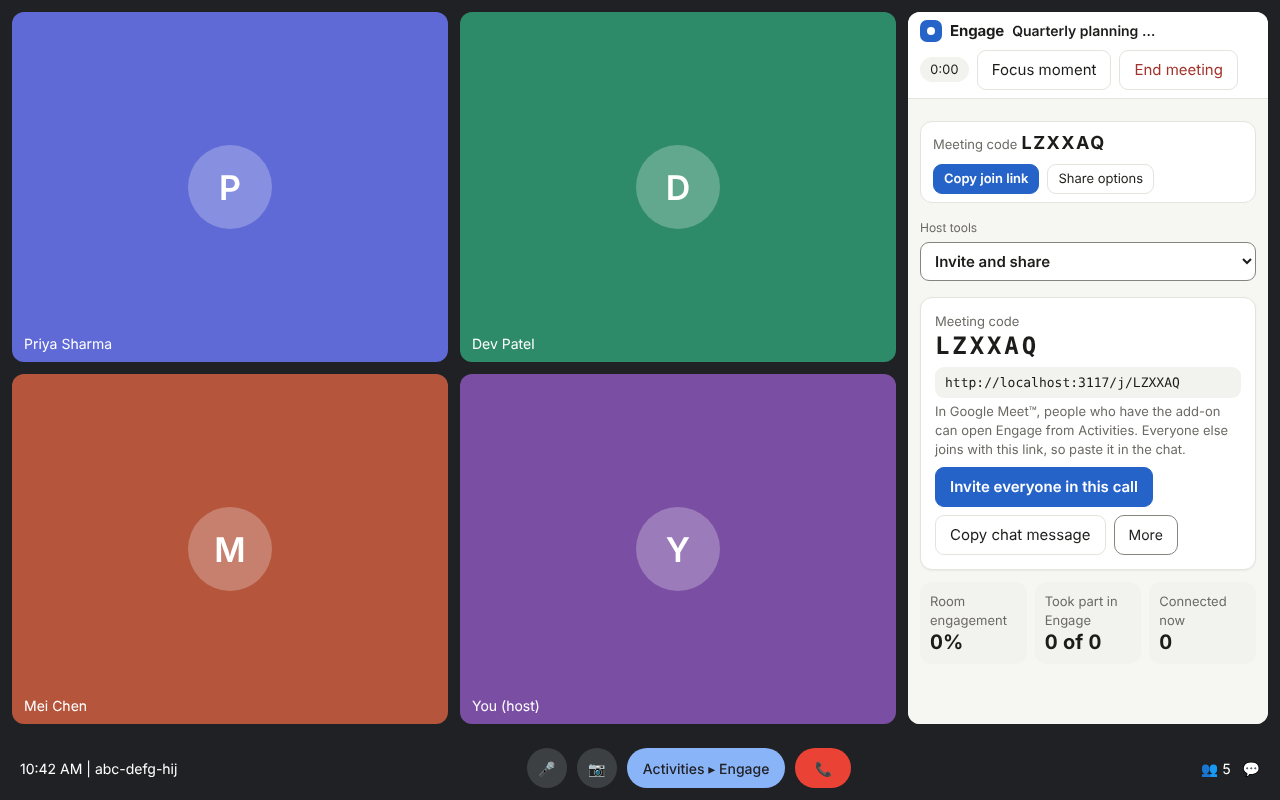
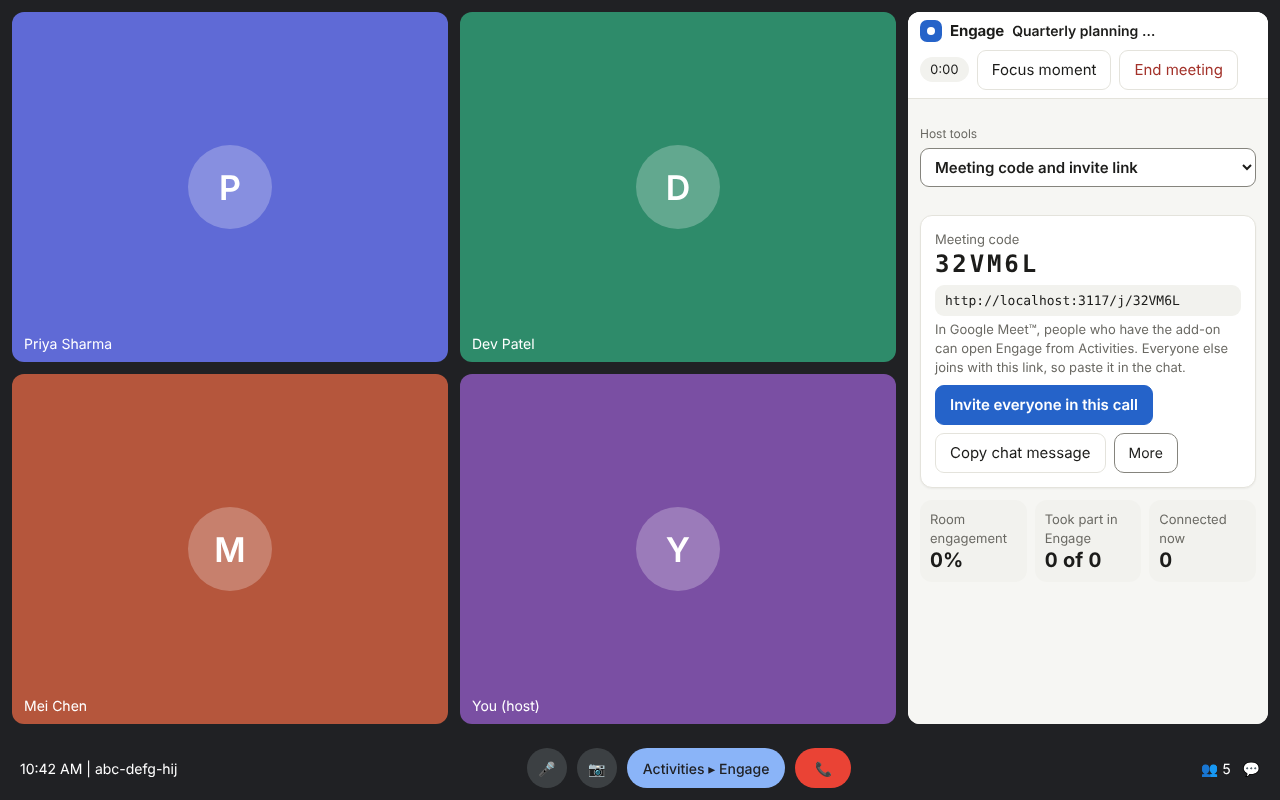
Host panel: meeting code lives only in the tools dropdown, not a permanent strip
Claude-Session: https://claude.ai/code/session_01HMG2dDoKgBtQZLgDZz4L91

diff --git a/public/host.html b/public/host.html
@@ -29,11 +29,6 @@
   <main id="live" class="host-wrap" hidden>
     <div id="banners" class="stack"></div>
 
-    <div class="share-strip" id="share-strip" hidden>
-      <div><span class="small muted">Meeting code</span> <b class="num" id="strip-code"></b></div>
-      <div class="row"><button id="strip-copy" class="small primary">Copy join link</button><button id="strip-more" class="small">Share options</button></div>
-    </div>
-
     <div class="feature-bar" id="feature-bar" hidden>
       <label for="feature">Host tools</label>
       <select id="feature" aria-label="Choose a host tool">
@@ -44,7 +39,7 @@
         <option value="games">Games and automation</option>
         <option value="people">Who has been quiet</option>
         <option value="overview">Engagement over time</option>
-        <option value="invite">Invite and share</option>
+        <option value="invite">Meeting code and invite link</option>
         <option value="export">Download CSV and account</option>
       </select>
     </div>

diff --git a/public/js/host.js b/public/js/host.js
@@ -791,12 +791,9 @@ if (embedded) {
   $('#feature-bar').hidden = false;
   let saved = null;
   try { saved = sessionStorage.getItem(featureKey); } catch { /* ignore */ }
-  // First time in: land on Invite and share so the host has the code and link in hand.
+  // First time in: land on the meeting code and invite link; after that the host's last tool is remembered.
   showFeature([...featureSelect.options].some((o) => o.value === saved) ? saved : 'invite');
-  $('#share-strip').hidden = false;
-  $('#strip-code').textContent = code;
-  $('#strip-copy').addEventListener('click', () => copy(link(), 'Join link copied. Paste it in the meeting chat.'));
-  $('#strip-more').addEventListener('click', () => { showFeature('invite'); });
+
   featureSelect.addEventListener('change', () => showFeature(featureSelect.value));
 
   // The CSV is downloaded on the website after signing in; the meeting is saved to the account.

diff --git a/public/css/styles.css b/public/css/styles.css
@@ -429,7 +429,4 @@ body.prompting .moment-card { border-color: var(--accent); box-shadow: 0 0 0 2px
 .done-note b { display: block; font-size: 18px; margin-bottom: 4px; }
 body.embed #moment-card { order: -1; }
 
-.share-strip { display: none; justify-content: space-between; align-items: center; gap: 8px; flex-wrap: wrap; background: var(--surface); border: 1px solid var(--border); border-radius: 12px; padding: 8px 12px; }
-body.embed .share-strip:not([hidden]) { display: flex; }
-.share-strip .num { font-size: 18px; letter-spacing: 0.08em; }
 #link { user-select: all; overflow-wrap: anywhere; }
